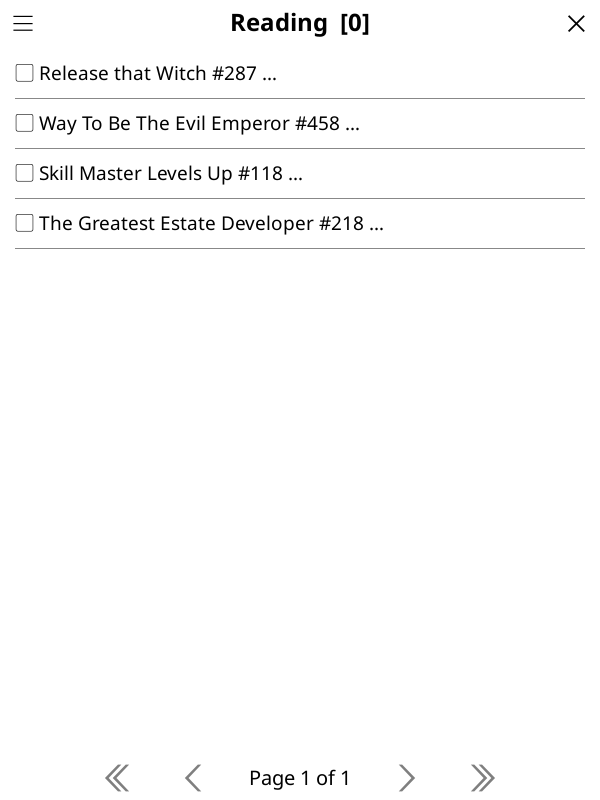
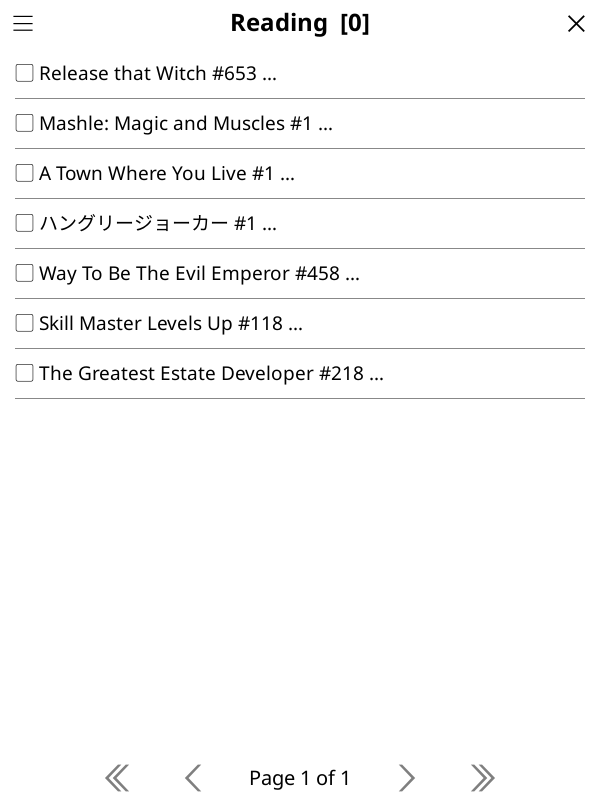
feat: download-folder dialog with home default; refresh screenshots and docs
- feat: Download folder shows the current path with Choose folder / Use default (clears the custom dir, back to <KOReader home>/Komga via Settings:defaultDownloadDir)
- shots: capture the new filename template dialog; refresh library screenshots
- docs: README blurb; usage page shows the template dialog
- test: chooser pick/reset integration flows; defaultDownloadDir unit spec

Changed region(s): [[0.06, 0.125, 0.6, 0.5], [0.36, 0.0625, 0.42, 0.0938]]

diff --git a/website/docs/usage.md b/website/docs/usage.md
@@ -62,6 +62,8 @@ Each row shows a checkbox, the series title, the chapter number, and a status ma
 - File names follow **Komga → Settings → Filename template**. Placeholders: `{series}`,
   `{title}` (chapter title, may be empty), `{number}` (zero-padded sort, e.g. `0001`,
   `0010.5`). Default: `{number}`; `{number}` is required.
+
+    ![The filename template dialog](assets/screenshots/template.png){ width="320" }
 - **Komga → Settings → Per-series subfolder** controls the `<Series name>/` level. Turning it
   off saves everything flat under the root and requires `{series}` in the template.
 - Names are sanitized for FAT32 compatibility (illegal characters replaced with spaces,

diff --git a/README.md b/README.md
@@ -2,7 +2,8 @@
 
 Browse a [Komga](https://komga.org) manga server from your [KOReader](https://koreader.rocks)
 e-reader, multi-select chapters, and bulk-download them into per-series folders. Reading
-progress syncs back to Komga through KOReader's own sync.
+progress syncs back to Komga through KOReader's own sync. Downloads retry over flaky
+connections, and the download folder and file naming are configurable from Settings.
 
 ![The Komga home hub](website/docs/assets/screenshots/home.png)
 
